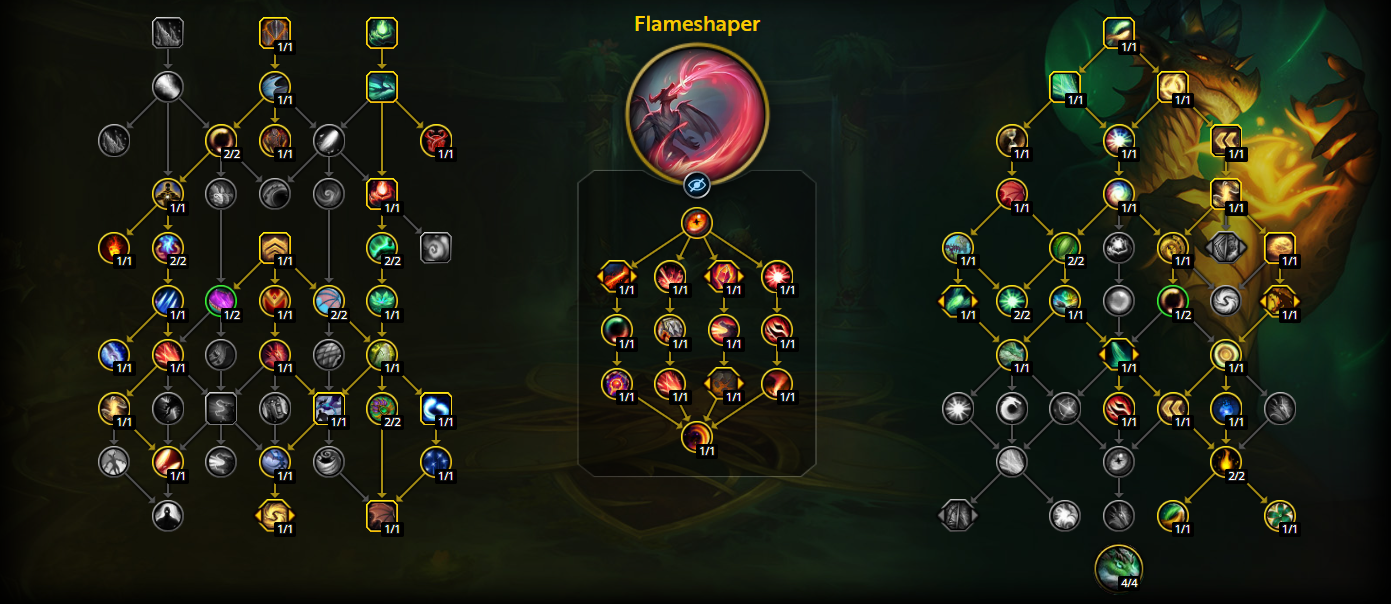
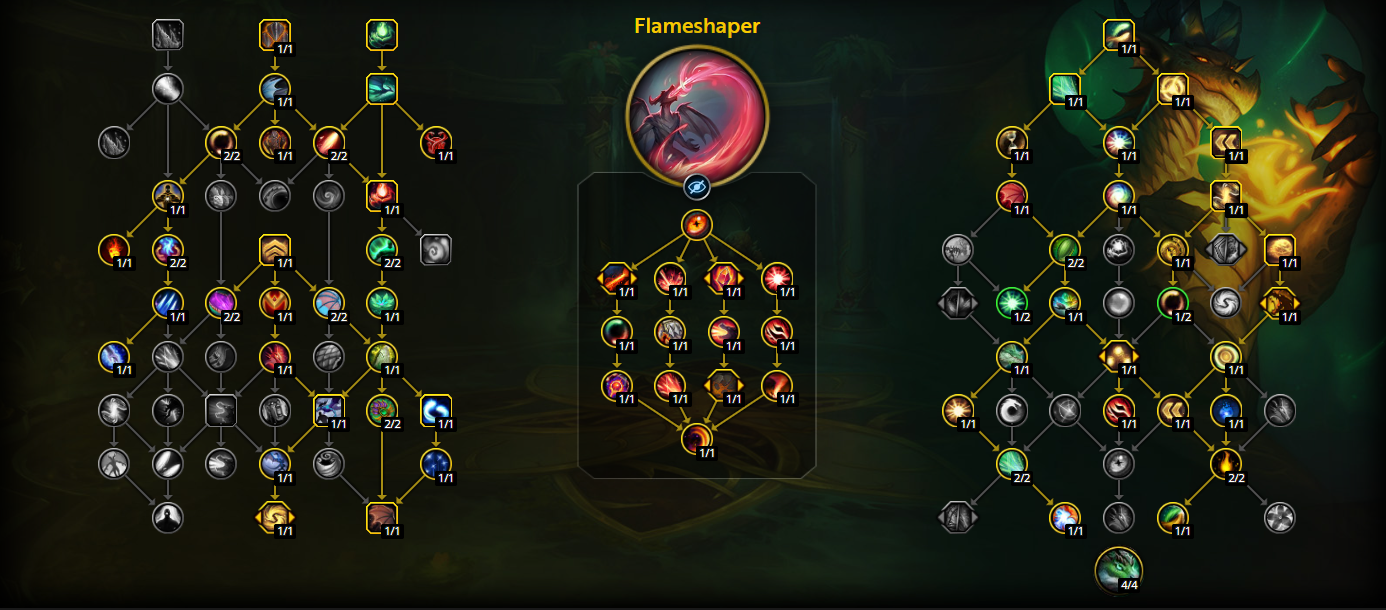
9/3 update
updated builds morning of 9/3

diff --git a/builds.js b/builds.js
@@ -1,4 +1,4 @@
-const BUILDS_LAST_UPDATED = "August 31, 2026";
+const BUILDS_LAST_UPDATED = "September 3, 2026";
 
 const builds = {
     aof: {
@@ -50,7 +50,7 @@ const builds = {
         type: "dungeon",
         name: "The Blinding Vale",
         pres: {
-            key: 11,
+            key: 12,
             talentString: "CwbBAAAAAAAAAAAAAAAAAAAAAAAAAAAYmZ2MzMGmHYMbmZmZmNMAAwMmxAjZkZmBAAAYmZmMjZmZWmZeAAMjZgNwCYGmQWgNDDgZmxA",
             image: "images/bv-pres.png"
         },
@@ -140,7 +140,7 @@ const builds = {
         type: "raid",
         name: "Entombed Sentinels",
         pres: {
-            difficulty: "Heroic",
+            difficulty: "Mythic",
             talentString: "CwbBAAAAAAAAAAAAAAAAAAAAAAAAAAAYmZwMjh5BGzmhZmZbGDAAMjZMDGzIMDAAAwMzMxYmZmlZmBAzYGYDsAmhJkFDbGGAzMjB",
             image: "images/va2-pres.png"
         },
@@ -155,7 +155,7 @@ const builds = {
         type: "raid",
         name: "The Lost Explorers",
         pres: {
-            difficulty: "Heroic",
+            difficulty: "Mythic",
             talentString: "CwbBAAAAAAAAAAAAAAAAAAAAAAAAAAAYmZwMjh5BGzmhZmZbGDAAMjZMDGzIMDAAAwMzMxYmZmlZmBAzYGYDsAmhJkFDbGGAzMjB",
             image: "images/va3-pres.png"
         },
@@ -245,8 +245,8 @@ const builds = {
         type: "raid",
         name: "Nymrissa Wavecaller",
         pres: {
-            difficulty: "Heroic",
-            talentString: "CwbBAAAAAAAAAAAAAAAAAAAAAAAAAAAYmZ2MzMGmHYMbmZmZmFMAAwMmxAjZkZmBAAAYmZmMjZmZWmZeAAMjZgNwCYGmQWgNDDgZmxA",
+            difficulty: "Mythic",
+            talentString: "CwbBAAAAAAAAAAAAAAAAAAAAAAAAAAAYmZwDMjh5BGzmZMzMbzYAAgZMjZwYGhZAAAAmZmJGzMzsMzMAYGzAbgFwMMhsYYzwAYmZMA",
             image: "images/lair-pres.png"
         },
         dev: {
